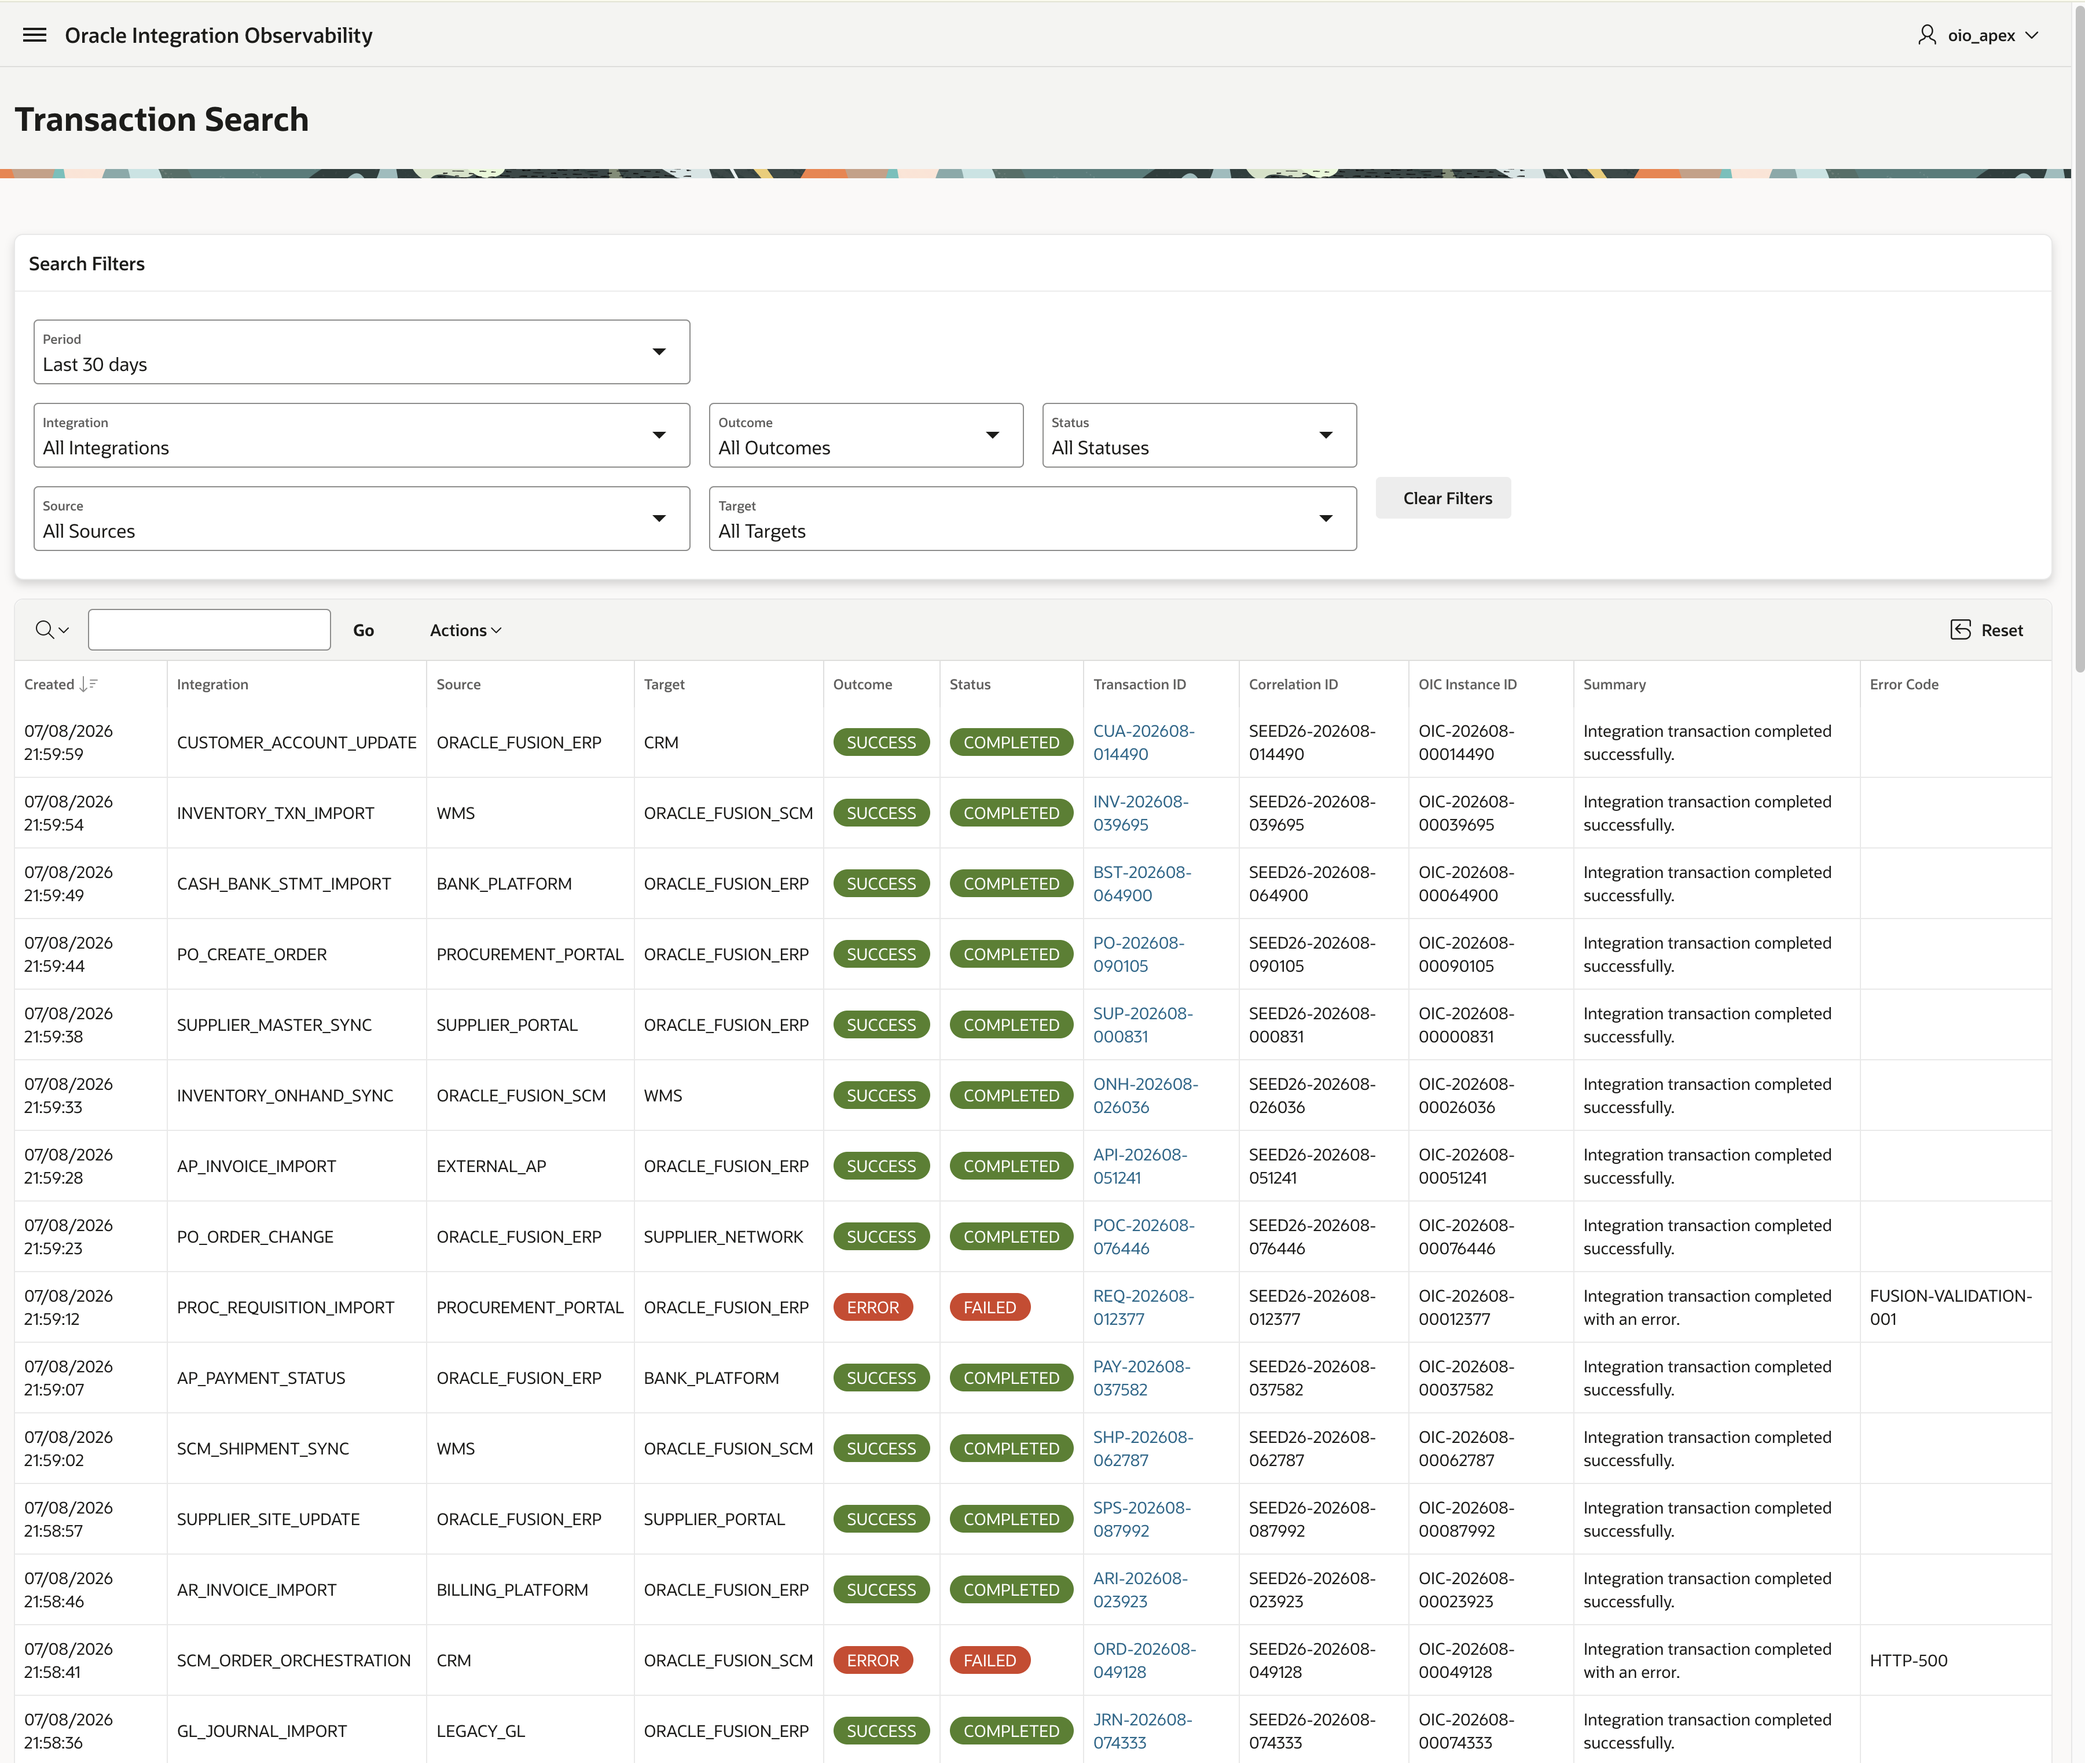
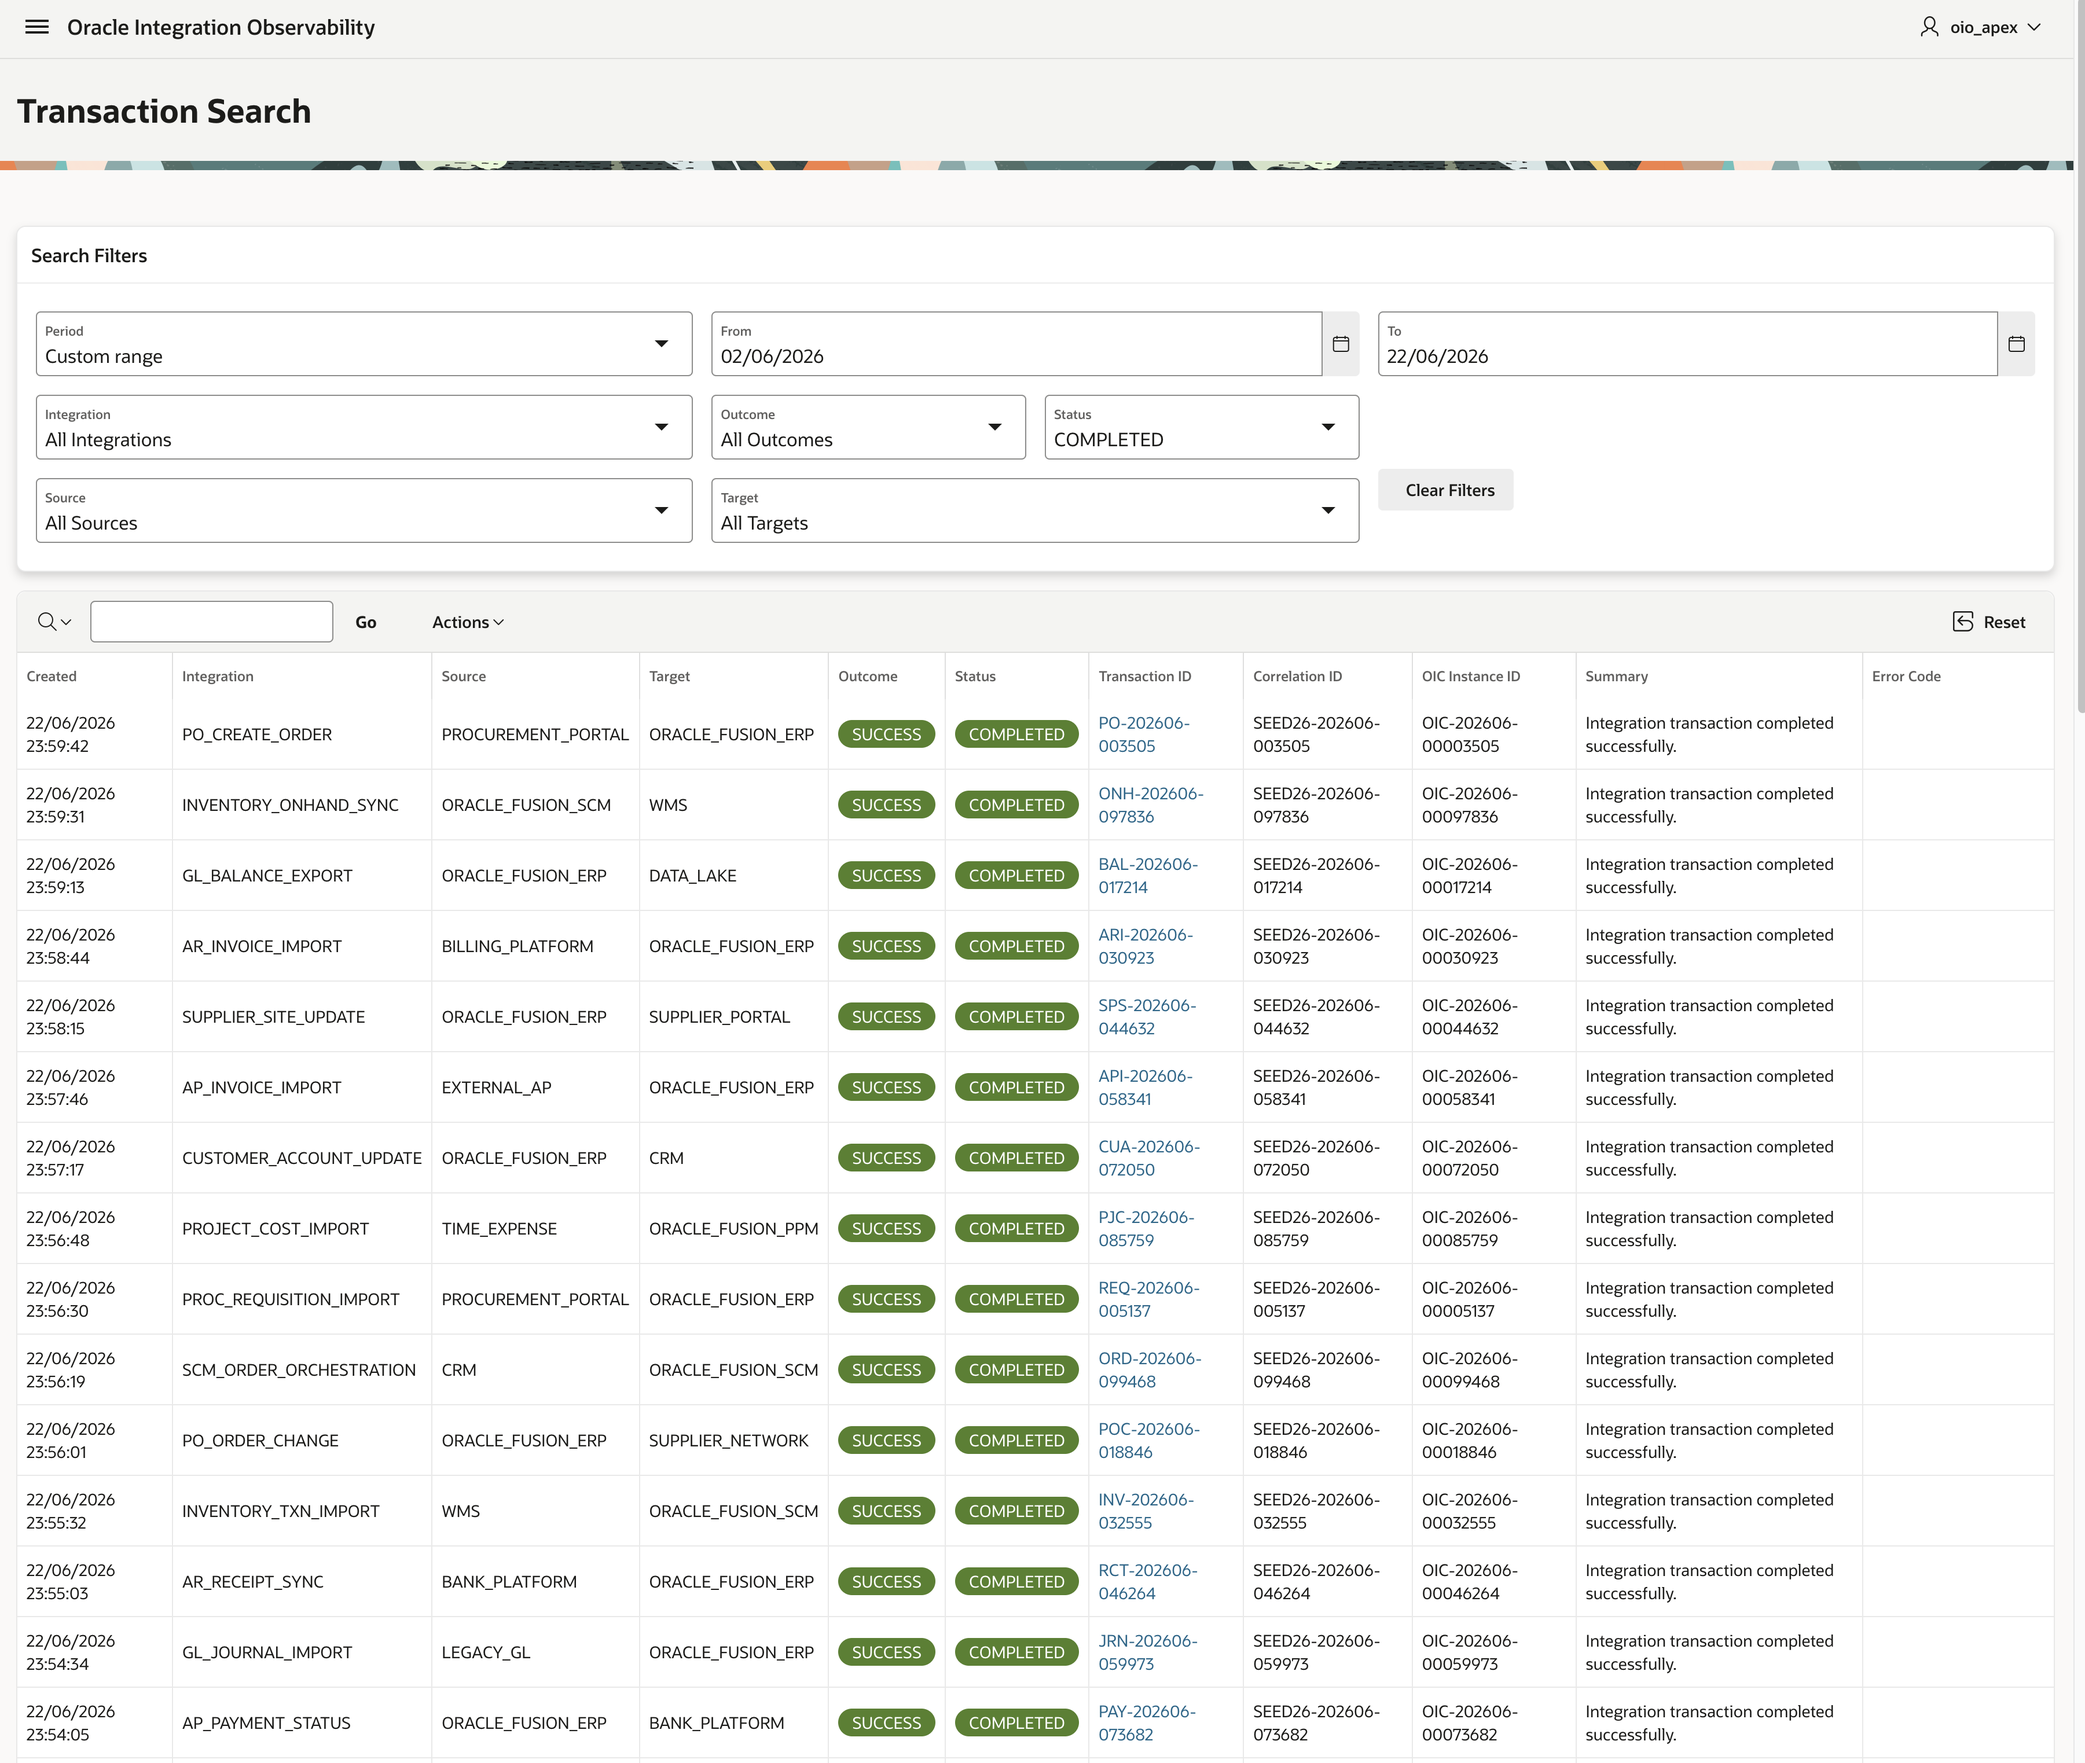
feat: minors fixes APEX

diff --git a/apex/README.md b/apex/README.md
@@ -185,9 +185,9 @@ The current export contains SQL references to the `OIO_OWNER` schema. If the obs
 
 ### Transaction Search
 
-![Transaction Search](screenshots/transaction-search-01.png)
+![Transaction Search](screenshots/transaction-search_01.png)
 
-![Transaction Search - Custom Range](screenshots/transaction-search-02.png)
+![Transaction Search - Custom Range](screenshots/transaction-search_02.png)
 
 ### Event History
 
@@ -210,8 +210,8 @@ apex/
 │       └── application/
 └── screenshots/
     ├── transaction-event-history-payload_01.png
-    ├── transaction-search-01.png
-    ├── transaction-search-02.png
+    ├── transaction-search_01.png
+    ├── transaction-search_02.png
     ├── transaction-search_event_history_01.png
     └── transaction-search_event_history_02.png
 ```

diff --git a/database/install/README.md b/database/install/README.md
@@ -9,10 +9,12 @@ This folder contains the initial OIO repository. `OIO_OWNER` creates and maintai
 3. `02_oio_trace.sql`
 4. `03_oio_trace_event.sql`
 5. `04_oio_trace_payload.sql`
-6. `05_oio_views.sql`
-7. `oio_trace_api_pks.sql`
-8. `oio_trace_api_pkb.sql`
-9. Optional: `00_oio_runtime_creation.sql` — execute as DBA after the package compiles.
+6. `05_oio_v_trace_payload.sql`
+7. `05_oio_v_trace_status_history.sql`
+8. `06_oio_v_trace_current.sql`
+9. `oio_trace_api_pks.sql`
+10. `oio_trace_api_pkb.sql`
+11. Optional: `00_oio_runtime_creation.sql` — execute as DBA after the package compiles.
 
 ## Security model
 

diff --git a/README.md b/README.md
@@ -65,7 +65,7 @@ For the complete design, see [Architecture](docs/architecture.md).
 | JSON examples | Available |
 | Architecture documentation | Available |
 | Oracle Integration implementation | Available |
-| Oracle APEX operational console | Planned |
+| Oracle APEX operational console | Available |
 | ORDS and Grafana extension | Planned |
 | Automated deployment and tests | Planned |
 
